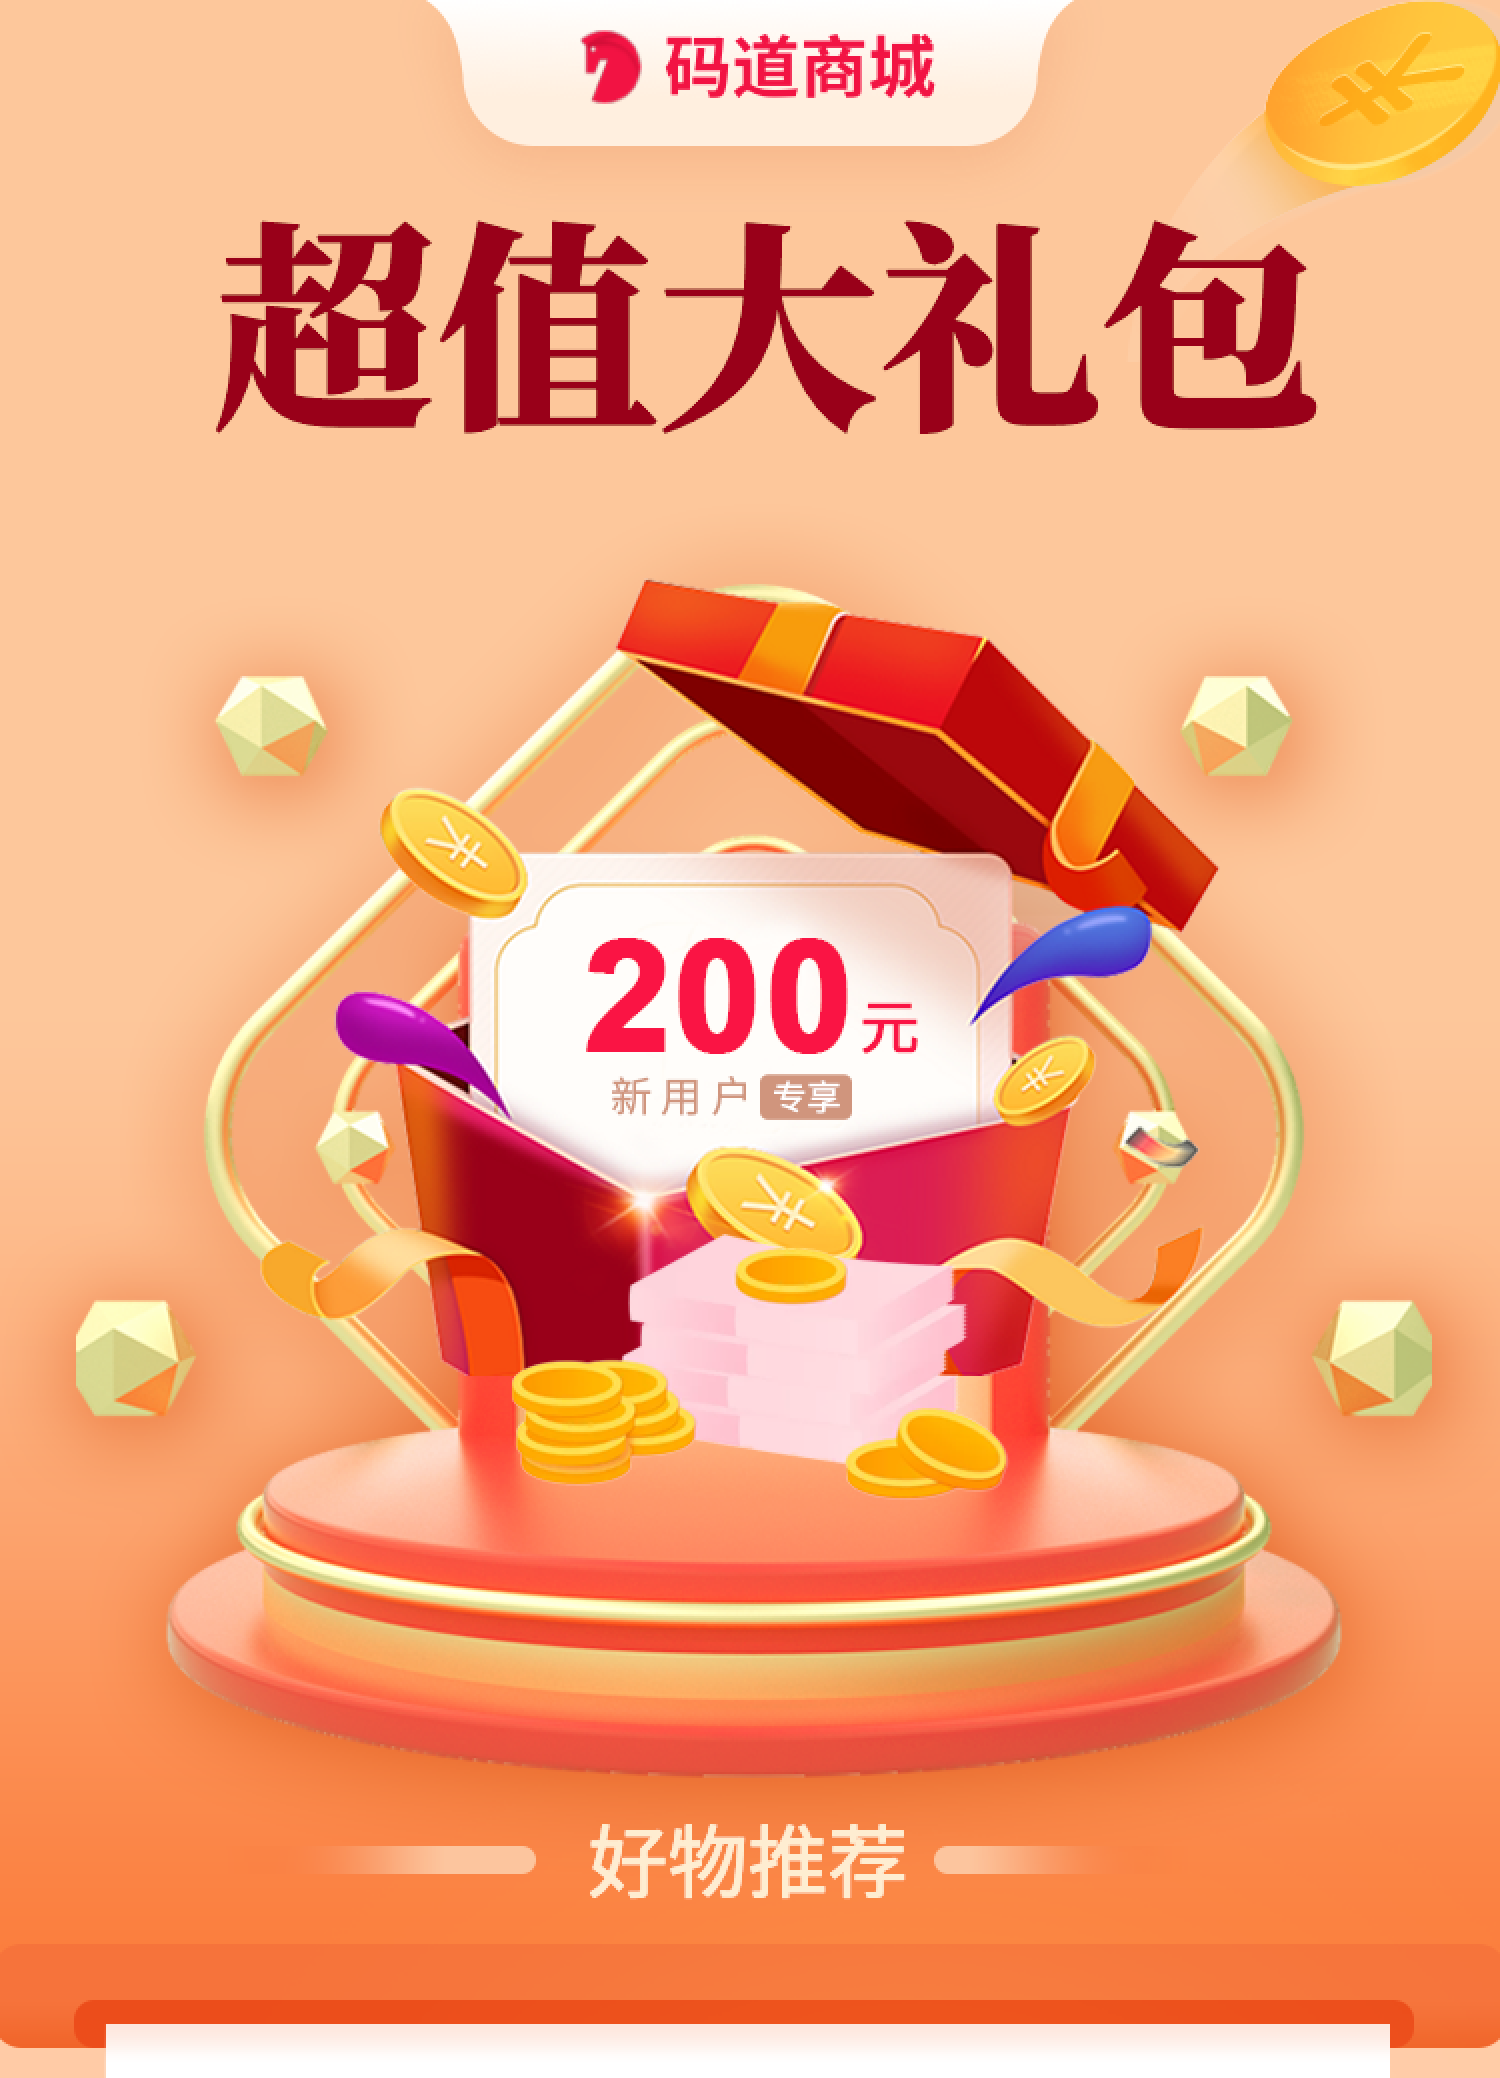
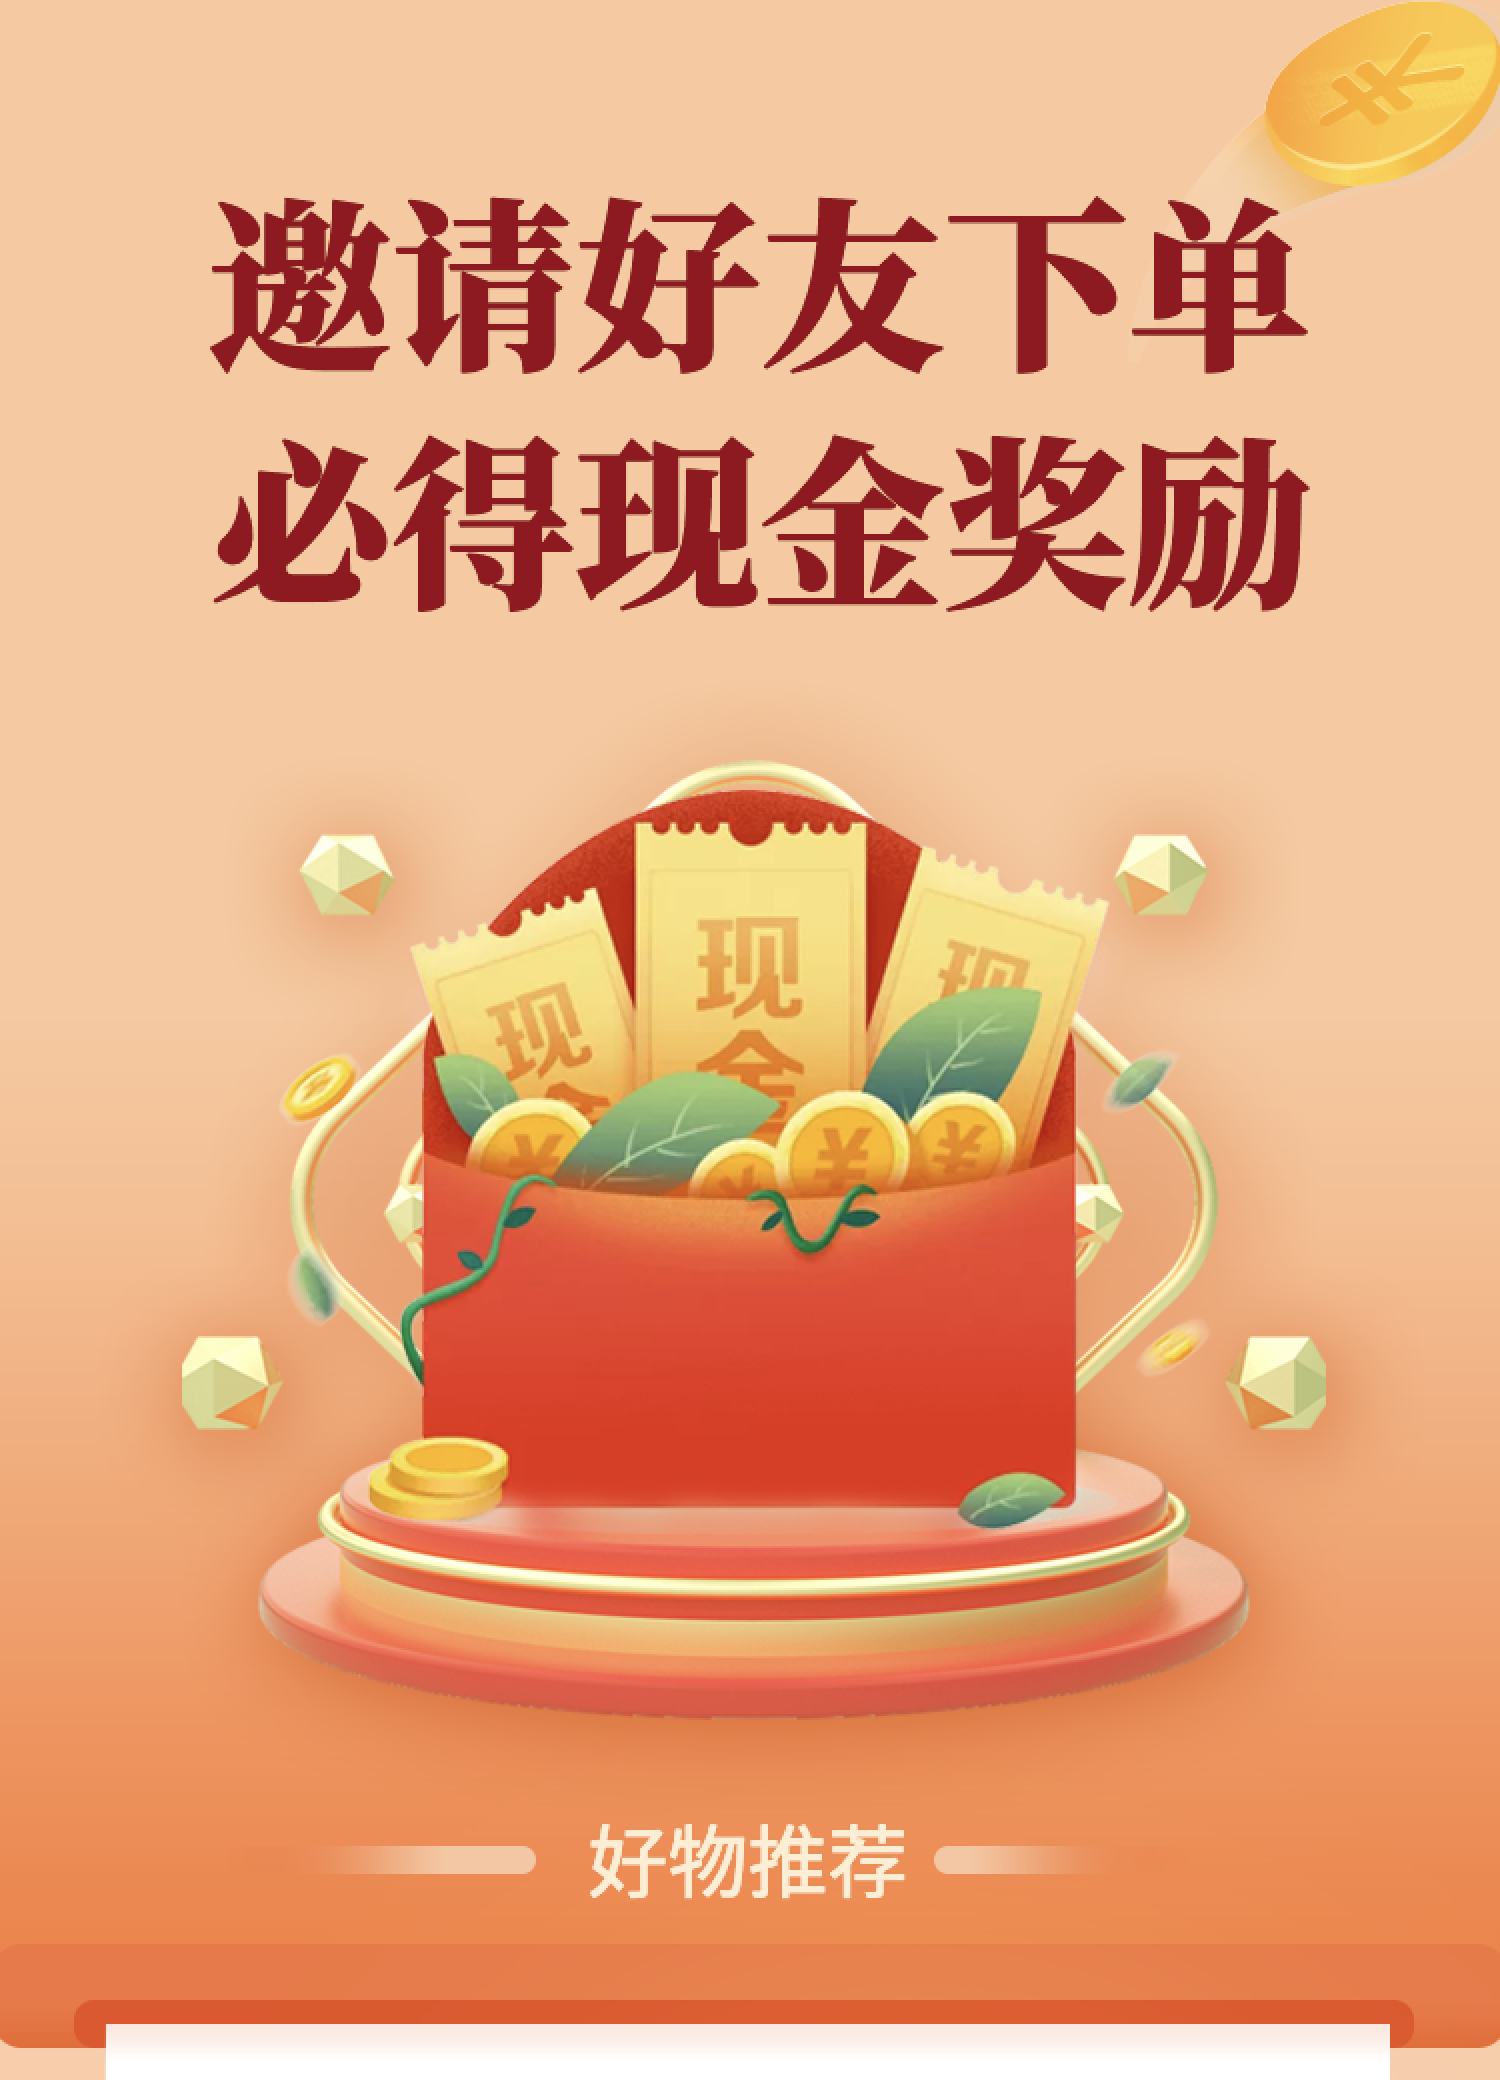
替换背景图

diff --git a/src/views/share/InvaitionPage/index.vue b/src/views/share/InvaitionPage/index.vue
@@ -2,9 +2,9 @@
   <div class="invation-page">
     <div class="top">
       <img class="bg-calss" src="../../../assets/img/invation-bg.png" alt="">
-      <div class="text">
+      <!-- <div class="text">
         <div v-if="activityCheckJoinActCode == 1" class="text-box">
-          <p>快去领取您的转服福利吧～</p>
+          <p>快去领取您的专属福利吧～</p>
         </div>
         <div v-else-if="activityCheckJoinActCode == 3" class="text-box">
           <p>恭喜你领券成功，快去和你的好物不期而遇吧～</p>
@@ -13,12 +13,11 @@
         <div v-else-if="activityCheckJoinActCode == 4" class="text-box">
           <p>不能邀请自己哦～       快去邀请好友下单吧</p>
         </div>
-      </div>
+      </div> -->
       <!-- <div class="go-btn">
         <div  v-if="activityCheckJoinActCode == 1" @click="getCoupon">立即领取</div>
         <div  v-else @click="goHome">去看看</div>
       </div> -->
-
     </div>
     <div class="recommend-annual">
       <!-- <div class="recommend-title">
@@ -168,7 +167,20 @@ export default {
         wx.miniProgram.navigateTo({ url })
       }
     },
+    judgeLogin() {
+      const token = this.$route.query.token
+      const shareCode = this.$route.query.sharecode
+      if(!token || token === 'undefined') {
+        console.log('token')
+        let url = '/pages/login/selectLogin?invitationCode=' + shareCode + '&channel=1226'
+        wx.miniProgram.navigateTo({ url })
+        return false
+      }else {
+        return true
+      }
+    },
     getActivityCheckJoinAct() {
+      console.log('jjjjj')
       const token = this.$route.query.token
       const shareCode = this.$route.query.sharecode
       this.$http.fetchGet(ActivityCheckJoinAct, {code: '1226',token: token, shareCode }).then(res => {
@@ -202,9 +214,11 @@ export default {
   },
   mounted() {
     document.title = '邀请有礼'
-
     this.testMobileType()
-    this.getActivityCheckJoinAct()
+    if(this.judgeLogin()) {
+      this.getActivityCheckJoinAct()
+    }
+   
   }
 }
 </script>
